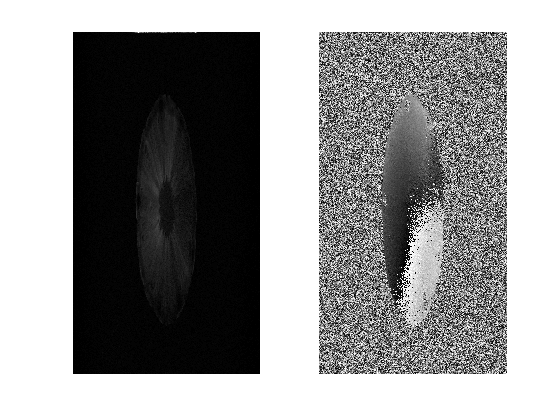
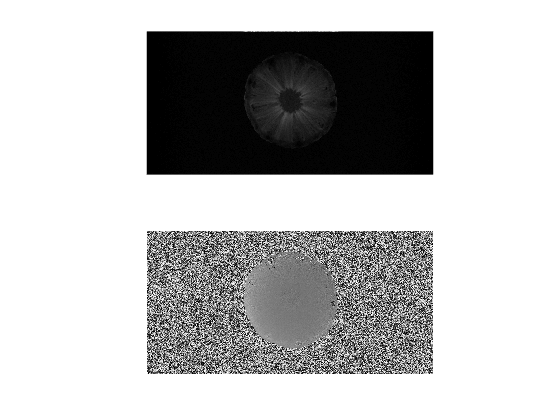
updated code

diff --git a/homework/hw1/html/MR_hw1_3.html b/homework/hw1/html/MR_hw1_3.html
@@ -82,21 +82,16 @@ figure
     imagesc(angle(data(:,:,i)))
     colormap(gray); axis <span class="string">off</span>;
 <span class="keyword">end</span>
-</pre><img vspace="5" hspace="5" src="MR_hw1_3_01.png" alt=""> <img vspace="5" hspace="5" src="MR_hw1_3_02.png" alt=""> <h2>part 2<a name="3"></a></h2><pre class="codeinput">im = ifftshift(fft2(fftshift(data)));
-im_rss = zeros(size(im(:,:,1)));
-<span class="keyword">for</span> i=1:size(im,1)
-    <span class="keyword">for</span> j=1:size(im,2)
-        im_rss(i,j) = sqrt(sum(im(i,j,:).^2));
-    <span class="keyword">end</span>
-<span class="keyword">end</span>
+</pre><img vspace="5" hspace="5" src="MR_hw1_3_01.png" alt=""> <img vspace="5" hspace="5" src="MR_hw1_3_02.png" alt=""> <h2>part 2<a name="3"></a></h2><pre class="codeinput">im = fftshift(ifft2(ifftshift(data)));
+im_rss = sqrt(sum(abs(im).^2, 3));
 
 figure
-subplot(1,2,1)
-imagesc(abs(im_rss)); axis <span class="string">off</span>
+subplot(2,1,1)
+imagesc(abs(im_rss)); axis <span class="string">off</span>; axis <span class="string">equal</span>
 colormap(gray)
 
-subplot(1,2,2)
-imagesc(angle(im_rss)); axis <span class="string">off</span>
+subplot(2,1,2)
+imagesc(angle(im(:,:,1))); axis <span class="string">off</span>; axis <span class="string">equal</span>
 colormap(gray)
 </pre><img vspace="5" hspace="5" src="MR_hw1_3_03.png" alt=""> <p class="footer"><br><a href="http://www.mathworks.com/products/matlab/">Published with MATLAB&reg; R2015a</a><br></p></div><!--
 ##### SOURCE BEGIN #####
@@ -121,21 +116,16 @@ end
 
 %% part 2
 
-im = ifftshift(fft2(fftshift(data)));
-im_rss = zeros(size(im(:,:,1)));
-for i=1:size(im,1)
-    for j=1:size(im,2)
-        im_rss(i,j) = sqrt(sum(im(i,j,:).^2));
-    end
-end
+im = fftshift(ifft2(ifftshift(data)));
+im_rss = sqrt(sum(abs(im).^2, 3));
 
 figure
-subplot(1,2,1)
-imagesc(abs(im_rss)); axis off
+subplot(2,1,1)
+imagesc(abs(im_rss)); axis off; axis equal
 colormap(gray)
 
-subplot(1,2,2)
-imagesc(angle(im_rss)); axis off
+subplot(2,1,2)
+imagesc(angle(im(:,:,1))); axis off; axis equal
 colormap(gray)
 
 ##### SOURCE END #####

diff --git a/homework/hw1/MR_hw1_3.m b/homework/hw1/MR_hw1_3.m
@@ -19,19 +19,14 @@ end
 
 %% part 2
 
-im = ifftshift(fft2(fftshift(data)));
-im_rss = zeros(size(im(:,:,1)));
-for i=1:size(im,1)
-    for j=1:size(im,2)
-        im_rss(i,j) = sqrt(sum(im(i,j,:).^2));
-    end
-end
+im = fftshift(ifft2(ifftshift(data)));
+im_rss = sqrt(sum(abs(im).^2, 3));
 
 figure
-subplot(1,2,1)
-imagesc(abs(im_rss)); axis off
+subplot(2,1,1)
+imagesc(abs(im_rss)); axis off; axis equal
 colormap(gray)
 
-subplot(1,2,2)
-imagesc(angle(im_rss)); axis off
+subplot(2,1,2)
+imagesc(angle(im(:,:,1))); axis off; axis equal
 colormap(gray)
